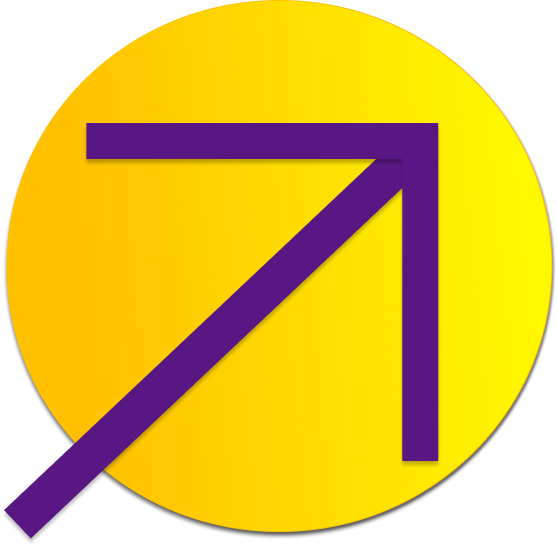
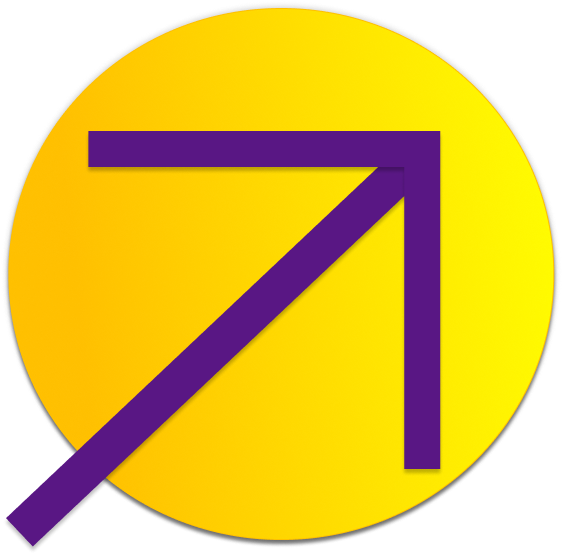
blur adjust

diff --git a/src/index.css b/src/index.css
@@ -264,7 +264,7 @@ background: linear-gradient(238.1deg, #FFFF00 0.57%, #FFC000 76.74%);
 
 
 background: linear-gradient(124.61deg, rgba(89, 23, 132, 0.25)   8.63%,  rgba(255, 255, 255, 0.2)  122.96%);
-box-shadow: 0px 2px 2px rgba(0, 0, 0, 0.25);
+box-shadow: 0px 0px 4px rgba(0, 0, 0, 0.25);
 backdrop-filter: blur(20px);
 /* Note: backdrop-filter has minimal browser support */
 border-radius: 12px;
@@ -352,7 +352,7 @@ letter-spacing: 0.02em;
 
 background: linear-gradient(278.72deg, rgba(89, 23, 132, 0.1) 38.38%, rgba(255, 255, 255, 0.04) 89.16%), linear-gradient(112.04deg, rgba(255, 192, 0, 0.1) 21.11%, rgba(255, 255, 255, 0.6) 76.09%);
 border: 1px solid #FFFFFF;
-box-shadow: 0px 4px 4px rgba(0, 0, 0, 0.3);
+box-shadow: 0px 0px 8px rgba(0, 0, 0, 0.3);
 backdrop-filter: blur(15px);
 /* Note: backdrop-filter has minimal browser support */
 border-radius: 20px;

diff --git a/src/components/home/Home.jsx b/src/components/home/Home.jsx
@@ -8,7 +8,7 @@ const Home = () => {
     <div >
       <Welcome />
     </div>
-
+       
    
     </div>
   )
